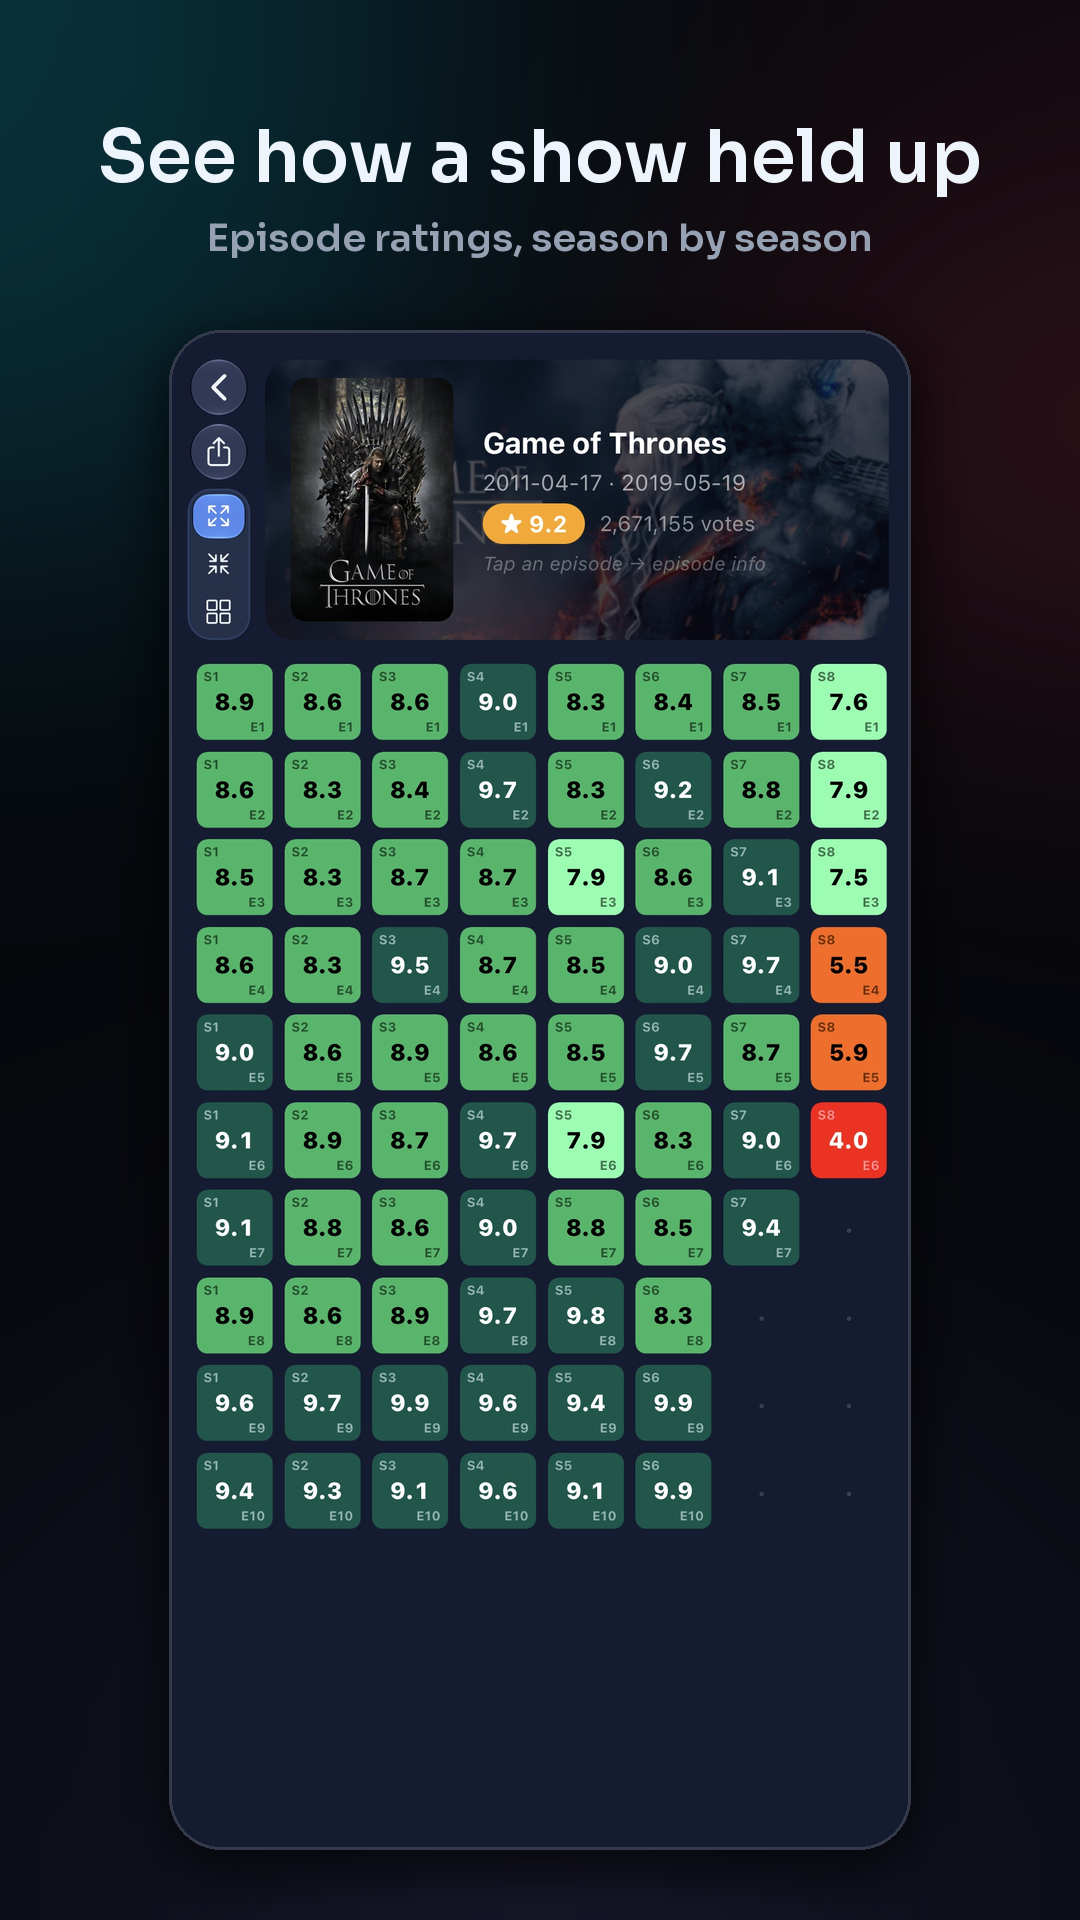
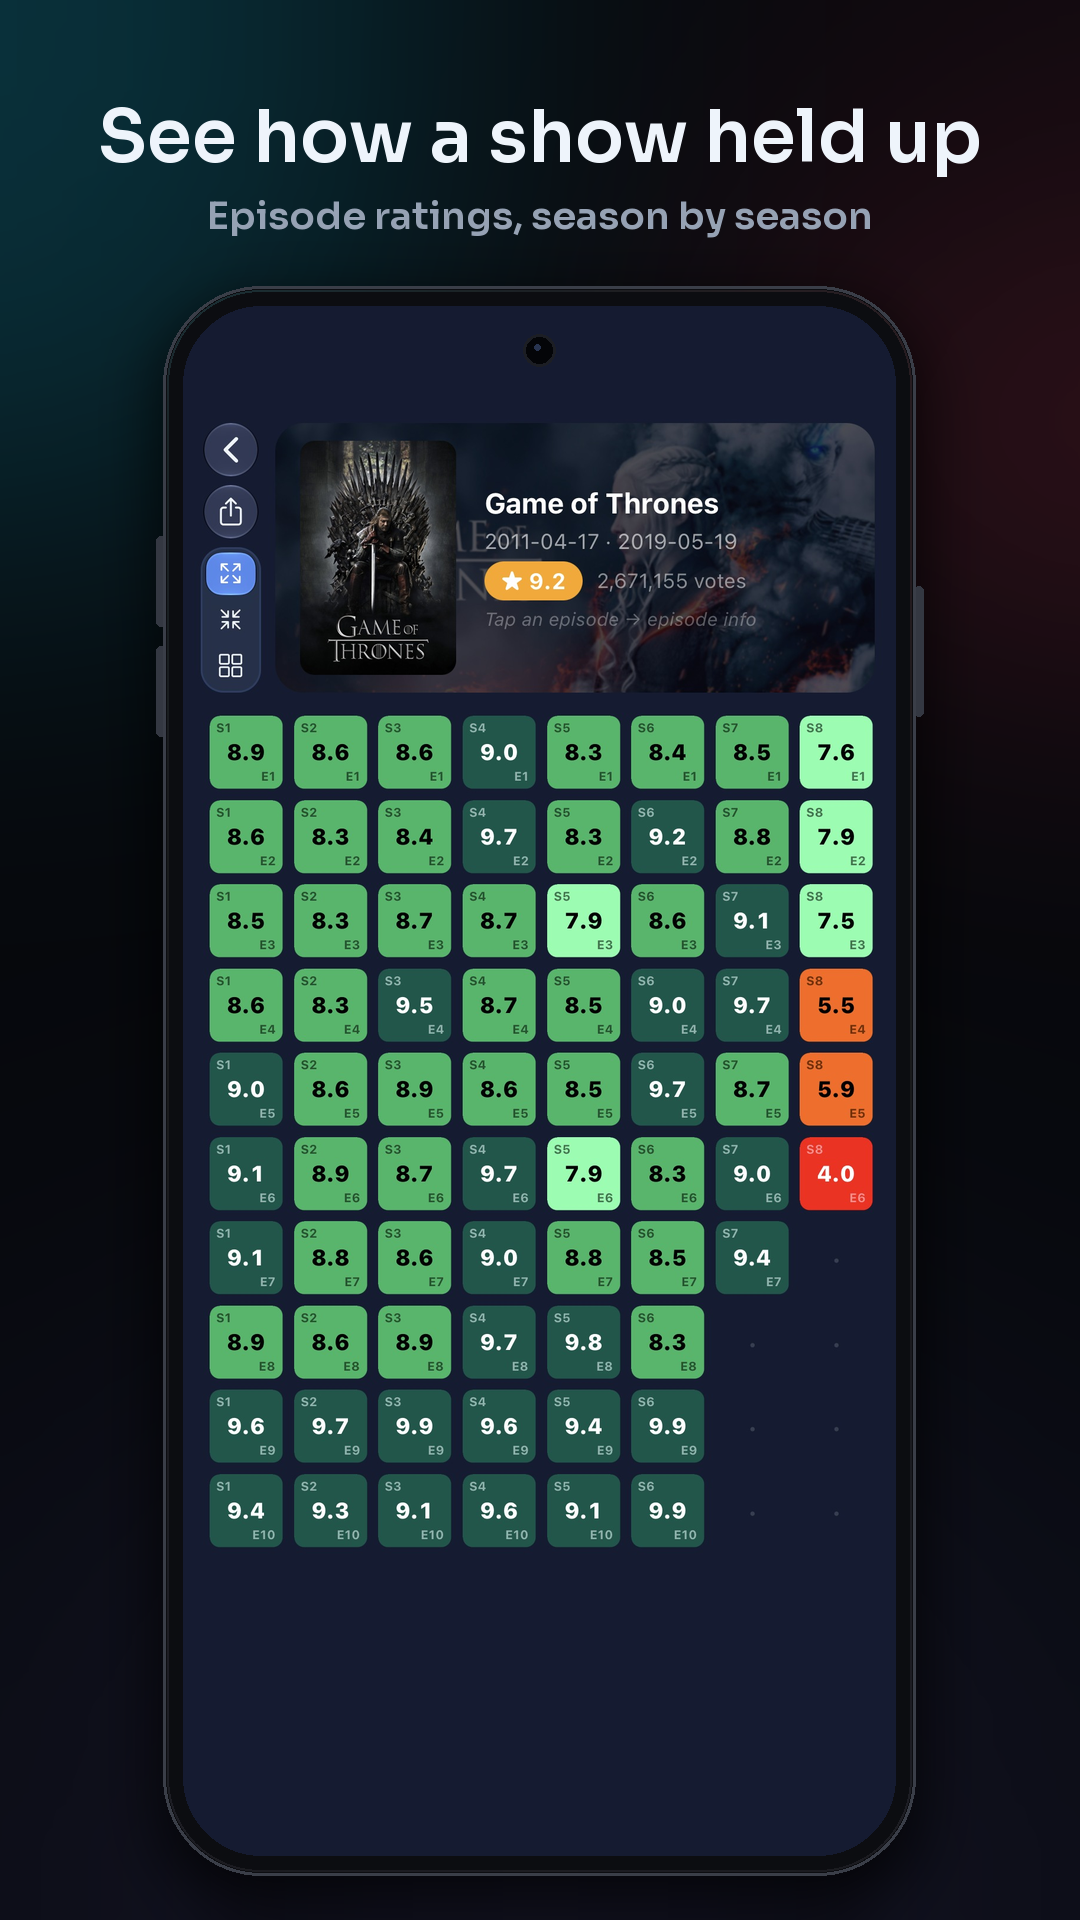
feat(mağaza): ekran görüntülerine telefon çerçevesi, daha yuvarlak köşeler
- Ekran tam iPhone oranında, köşe yarıçapı 78 px; metalik kenarlı koyu gövde,
  yan tuşlar, ön kamera deliği ve gölge
- Durum çubuğu (saat, pil) alt satırın uzatılmış rengiyle yumuşak geçişle gizlendi
- Windows dosya kilidine karşı geçici dosya + yeniden deneme ile kayıt

Changed region(s): [[0.0917, 0.0312, 0.8556, 0.9688], [0.825, 0.0625, 0.9167, 0.0938]]

diff --git a/store/uret-ekran-goruntuleri.py b/store/uret-ekran-goruntuleri.py
@@ -3,7 +3,7 @@
 # Kaynak: store/raw-screenshots/ios-en/*.jpg (iPhone, 1206x2622). Çalıştır:
 #   python store/uret-ekran-goruntuleri.py
 # iPhone oranı (~1:2,17) Play'in 2:1 sınırını aşar; bu yüzden ekran küçültülüp
-# marka zemini üzerine yerleştirilir, üstteki durum çubuğu kırpılır.
+# telefon çerçevesi içinde marka zemini üzerine yerleştirilir; durum çubuğu bulanıklaştırılır.
 import os
 from PIL import Image, ImageDraw, ImageFilter, ImageFont
 
@@ -13,7 +13,7 @@ OUT = os.path.join(ROOT, "store", "assets", "screenshots")
 FONT = os.path.join(ROOT, "marketing", "marka", "yeni-logo", "kaynak", "font", "sora-600.ttf")
 W, H = 1080, 1920
 
-# (dosya, kırpma: üst px ya da (üst, alt) px, {dil: (başlık, alt satır)})
+# (dosya, durum çubuğu yüksekliği px ya da (durum çubuğu, içerik sonu) px, {dil: (başlık, alt satır)})
 SHOTS = [
     ("01-kesif", 150, {
         "en-US": ("Find what to watch next", "Trends, top rated and picks for you"),
@@ -62,40 +62,94 @@ def fit(draw, text, size, maxw):
         size -= 2
     return ImageFont.truetype(FONT, size)
 
-def frame(shot, crop):
+BEZEL = 20          # çerçeve kalınlığı
+SCREEN_R = 78       # ekran köşe yarıçapı
+PHONE_TOP = 286
+PHONE_H = H - PHONE_TOP - 44
+
+def screen_image(shot, crop):
+    """Telefon ekranı: tam iPhone oranı. Üstteki durum çubuğu (saat, pil) bulanıklaştırılır,
+    (üst, alt) verilmişse alttan kesilen kısım ekranın son satır rengiyle doldurulur."""
     im = Image.open(shot).convert("RGB")
-    top_px, bottom_px = crop if isinstance(crop, tuple) else (crop, im.height)
-    im = im.crop((0, top_px, im.width, bottom_px))
-    box_top, box_w, box_h = 330, 900, H - 330 - 70
-    scale = min(box_w / im.width, box_h / im.height)
-    sw, sh = round(im.width * scale), round(im.height * scale)
+    status_h, bottom_px = crop if isinstance(crop, tuple) else (crop, im.height)
+    full_w, full_h = im.width, im.height
+    if bottom_px < full_h:
+        filler = im.crop((0, bottom_px - 4, full_w, bottom_px - 2)).resize((1, 1)).getpixel((0, 0))
+        base = Image.new("RGB", (full_w, full_h), filler)
+        base.paste(im.crop((0, 0, full_w, bottom_px)), (0, 0))
+        im = base
+    # Saat/pil yazısını silmek için şerit, hemen altındaki satırların uzatılmış
+    # kopyasıyla doldurulur; sınır 40 px'lik yumuşak geçişle içeriğe karışır.
+    fade = 40
+    row = im.crop((0, status_h, full_w, status_h + 4)).resize((full_w, status_h + fade))
+    row = row.filter(ImageFilter.GaussianBlur(4))
+    alpha = Image.new("L", (1, status_h + fade))
+    for yy in range(status_h + fade):
+        alpha.putpixel((0, yy), 255 if yy < status_h else round(255 * (1 - (yy - status_h) / fade)))
+    im.paste(row, (0, 0), alpha.resize((full_w, status_h + fade)))
+    return im, status_h
+
+def frame(shot, crop):
+    im, status_h = screen_image(shot, crop)
+    sh = PHONE_H - 2 * BEZEL
+    scale = sh / im.height
+    sw = round(im.width * scale)
     im = im.resize((sw, sh), Image.LANCZOS).convert("RGBA")
+    # Ön kamera deliği (durum çubuğu alanının ortasında)
+    d = ImageDraw.Draw(im)
+    cx, cy, r = sw // 2, round(status_h * scale * 0.5), 13
+    d.ellipse((cx - r - 3, cy - r - 3, cx + r + 3, cy + r + 3), fill=(28, 30, 36, 255))
+    d.ellipse((cx - r, cy - r, cx + r, cy + r), fill=(4, 5, 8, 255))
+    d.ellipse((cx - 5, cy - 6, cx + 1, cy), fill=(40, 52, 80, 255))
     mask = Image.new("L", (sw, sh), 0)
-    ImageDraw.Draw(mask).rounded_rectangle((0, 0, sw - 1, sh - 1), radius=52, fill=255)
-    return im, mask, (W - sw) // 2, box_top + (box_h - sh) // 2
+    ImageDraw.Draw(mask).rounded_rectangle((0, 0, sw - 1, sh - 1), radius=SCREEN_R, fill=255)
+    pw, ph = sw + 2 * BEZEL, PHONE_H
+    return im, mask, (W - pw) // 2, PHONE_TOP, pw, ph
+
+def draw_phone(canvas, x, y, pw, ph):
+    outer_r = SCREEN_R + BEZEL
+    shadow = Image.new("RGBA", (W, H), (0, 0, 0, 0))
+    ImageDraw.Draw(shadow).rounded_rectangle((x - 4, y + 16, x + pw + 4, y + ph + 30), radius=outer_r, fill=(0, 0, 0, 190))
+    canvas = Image.alpha_composite(canvas, shadow.filter(ImageFilter.GaussianBlur(30)))
+    layer = Image.new("RGBA", (W, H), (0, 0, 0, 0))
+    d = ImageDraw.Draw(layer)
+    # Yan tuşlar (gövdenin arkasında, kenardan taşan)
+    d.rounded_rectangle((x + pw - 2, y + 300, x + pw + 7, y + 430), radius=4, fill=(52, 56, 66, 255))
+    d.rounded_rectangle((x - 7, y + 250, x + 2, y + 340), radius=4, fill=(52, 56, 66, 255))
+    d.rounded_rectangle((x - 7, y + 360, x + 2, y + 450), radius=4, fill=(52, 56, 66, 255))
+    # Gövde: metalik kenar + koyu çerçeve
+    d.rounded_rectangle((x, y, x + pw - 1, y + ph - 1), radius=outer_r, fill=(58, 62, 72, 255))
+    d.rounded_rectangle((x + 3, y + 3, x + pw - 4, y + ph - 4), radius=outer_r - 3, fill=(12, 13, 17, 255))
+    d.rounded_rectangle((x + 4, y + 4, x + pw - 5, y + ph - 5), radius=outer_r - 4, outline=(255, 255, 255, 22), width=2)
+    return Image.alpha_composite(canvas, layer)
+
+def save(img, path):
+    """Windows'ta dosya önizlemede/izleyicide açıkken yazım ara sıra reddedilir: geçici dosya + yeniden dene."""
+    import time
+    tmp = path + ".tmp.png"
+    img.save(tmp)
+    for _ in range(20):
+        try:
+            os.replace(tmp, path)
+            return
+        except OSError:
+            time.sleep(0.5)
+    raise OSError("yazılamadı: " + path)
 
 def main():
-    for name, crop_top, texts in SHOTS:
-        shot, mask, x, y = frame(os.path.join(RAW, name + ".jpg"), crop_top)
+    for name, crop, texts in SHOTS:
+        shot, mask, x, y, pw, ph = frame(os.path.join(RAW, name + ".jpg"), crop)
         for lang, (head, sub) in texts.items():
-            canvas = background()
-            shadow = Image.new("RGBA", (W, H), (0, 0, 0, 0))
-            ImageDraw.Draw(shadow).rounded_rectangle(
-                (x - 6, y + 10, x + shot.width + 6, y + shot.height + 22), radius=58, fill=(0, 0, 0, 170))
-            canvas = Image.alpha_composite(canvas, shadow.filter(ImageFilter.GaussianBlur(26)))
-            canvas.paste(shot, (x, y), mask)
-            border = Image.new("RGBA", (W, H), (0, 0, 0, 0))
-            ImageDraw.Draw(border).rounded_rectangle(
-                (x, y, x + shot.width - 1, y + shot.height - 1), radius=52, outline=(255, 255, 255, 34), width=3)
-            canvas = Image.alpha_composite(canvas, border)
+            canvas = draw_phone(background(), x, y, pw, ph)
+            canvas.paste(shot, (x + BEZEL, y + BEZEL), mask)
             d = ImageDraw.Draw(canvas)
             f1 = fit(d, head, 72, W - 120)
             f2 = fit(d, sub, 38, W - 140)
-            for text, font, ty, fill in ((head, f1, 112, (238, 244, 251)), (sub, f2, 214, (150, 162, 180))):
+            for text, font, ty, fill in ((head, f1, 92, (238, 244, 251)), (sub, f2, 192, (150, 162, 180))):
                 tw = d.textlength(text, font=font)
                 d.text(((W - tw) / 2, ty), text, font=font, fill=fill)
             os.makedirs(os.path.join(OUT, lang), exist_ok=True)
-            canvas.convert("RGB").save(os.path.join(OUT, lang, name + ".png"))
+            save(canvas.convert("RGB"), os.path.join(OUT, lang, name + ".png"))
     print("ok")
 
 if __name__ == "__main__":

diff --git a/store/README.md b/store/README.md
@@ -36,7 +36,7 @@ Plan, limit veya dil değişirse metni koddan doğrula: `utils/premiumFeatures.j
 - **Mağaza ikonu**: 512×512 PNG ✅
 - **Feature graphic**: 1024×500 ✅ (TR + EN)
 - **Telefon ekran görüntüleri**: 8 adet, 1080×1920 ✅ (TR + EN). iPhone oranı Play'in 2:1 sınırını
-  aştığı için ekranlar marka zemini üzerine küçültülerek yerleştirildi, durum çubuğu kırpıldı.
+  aştığı için ekranlar telefon çerçevesi içinde marka zemini üzerine yerleştirildi; saat/pil gizlendi.
 
 ## Console tarafında metinlerle birlikte girilecekler
 
